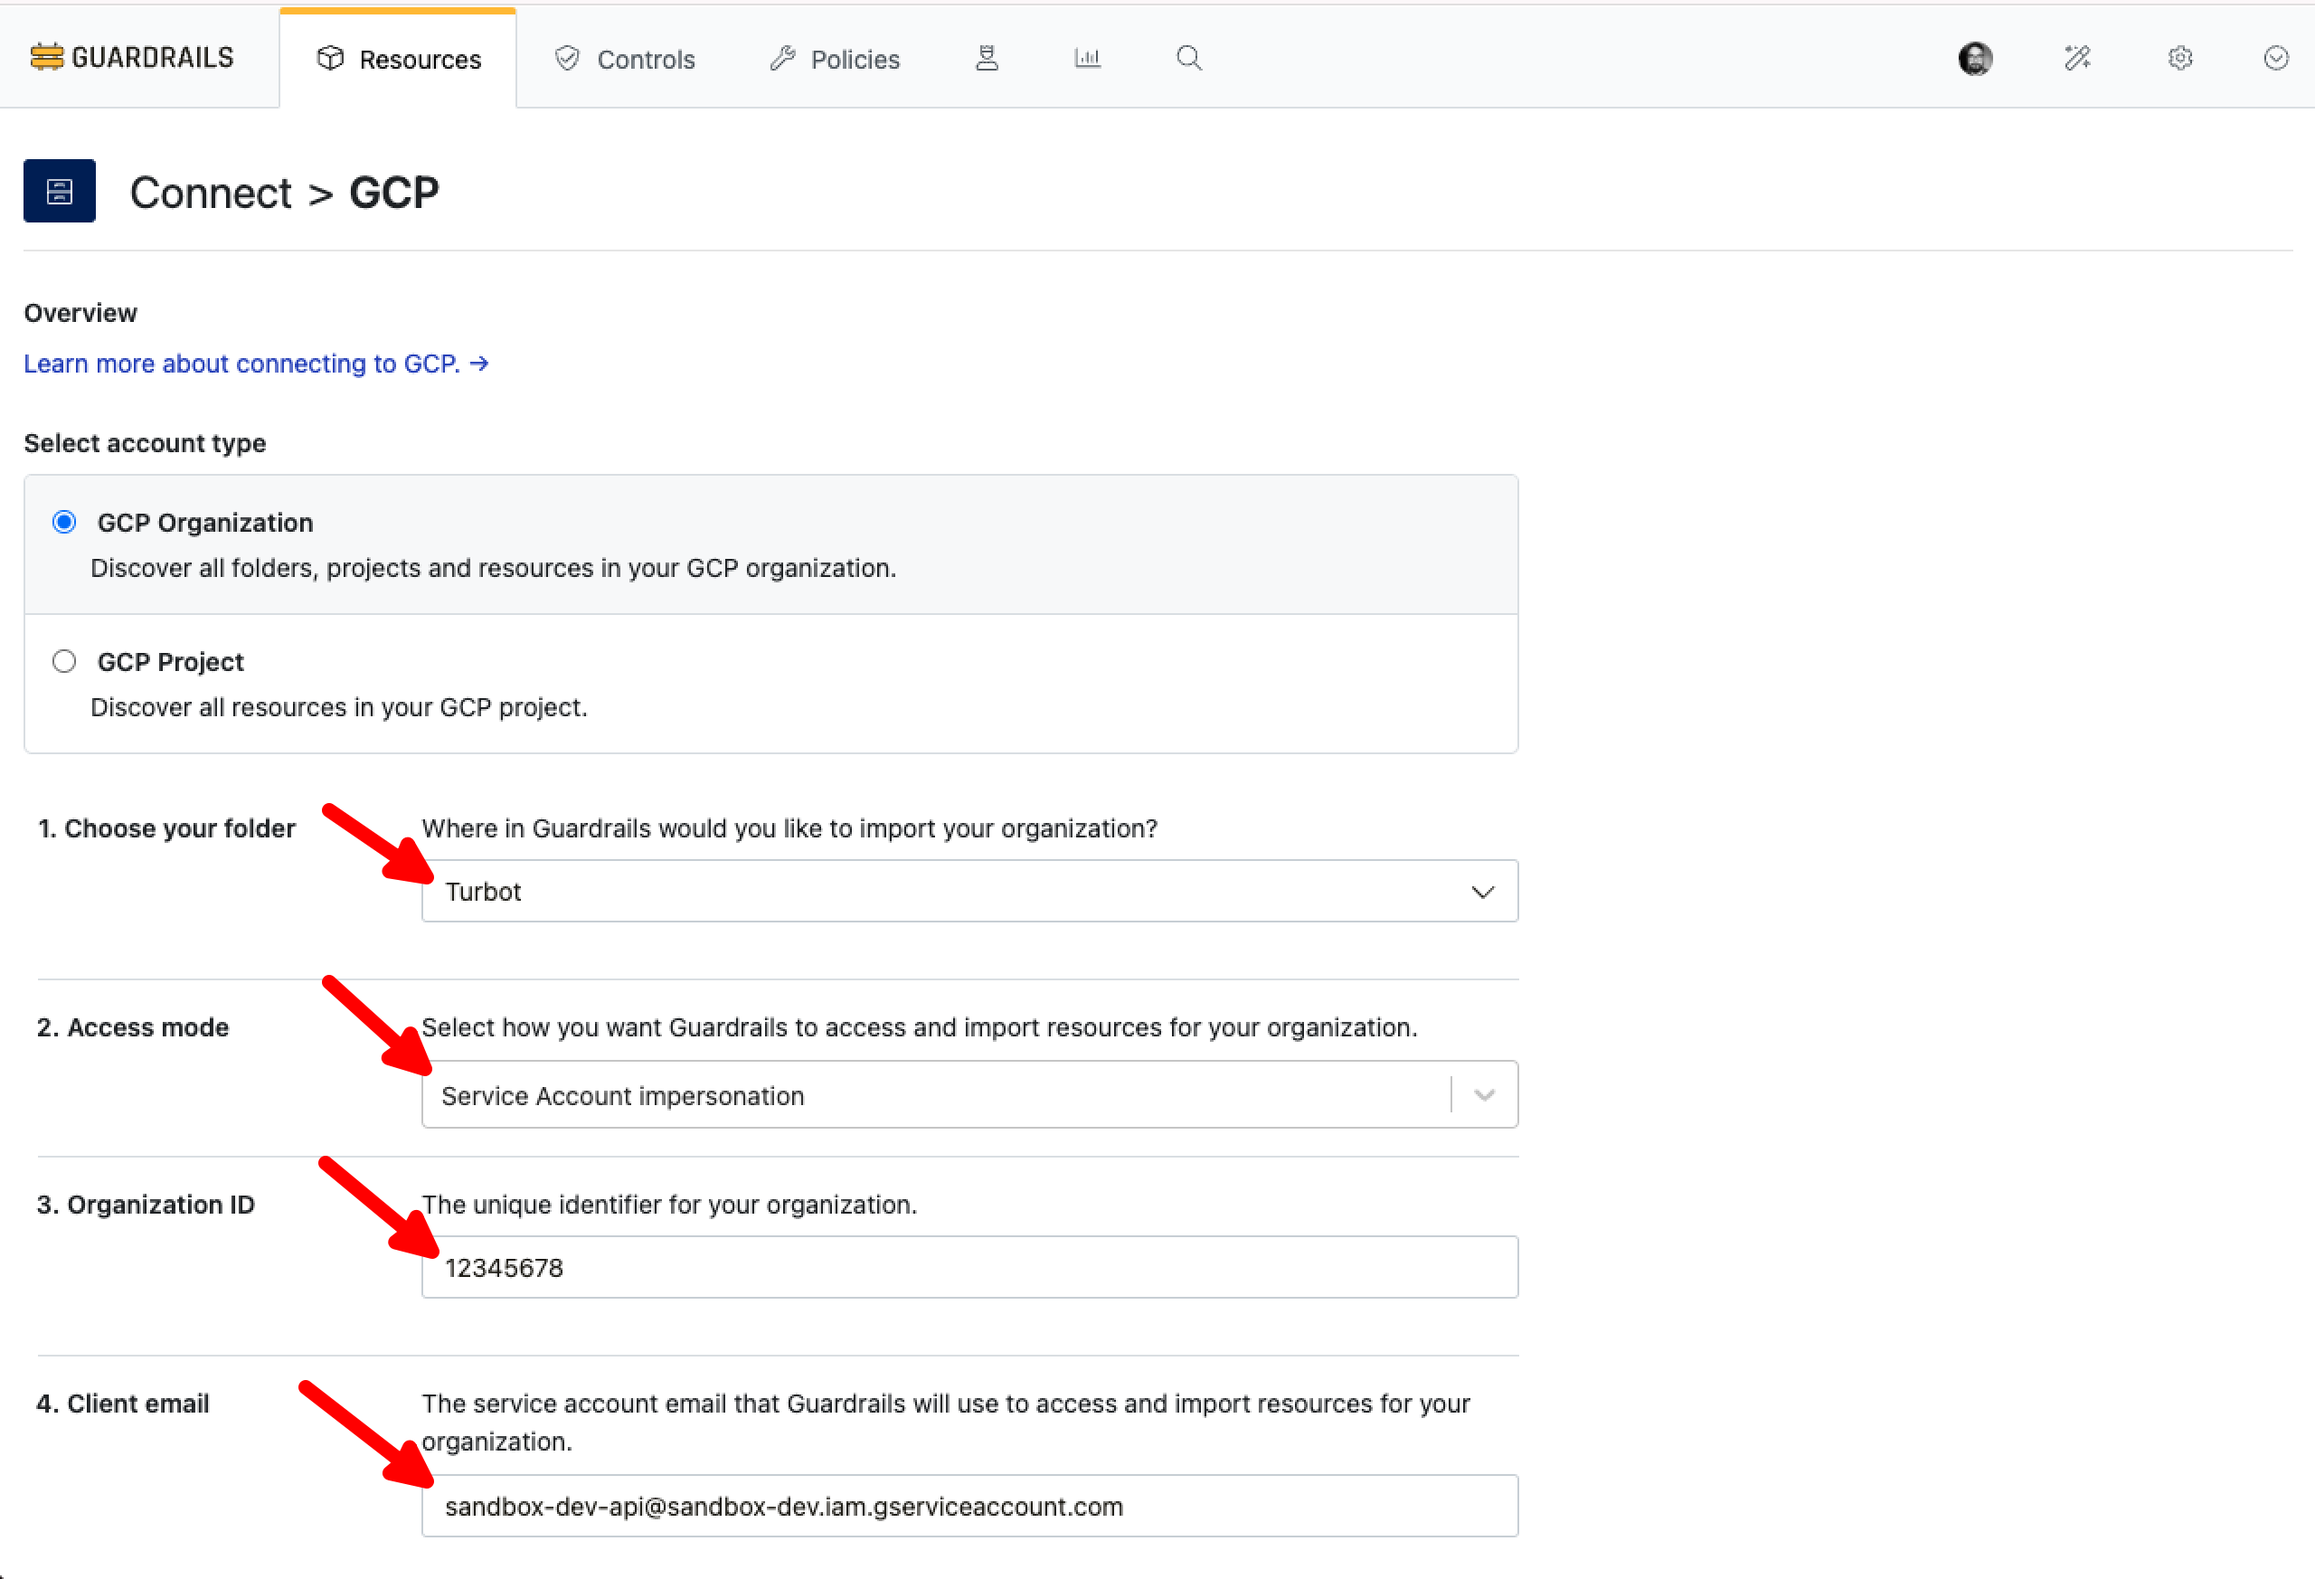
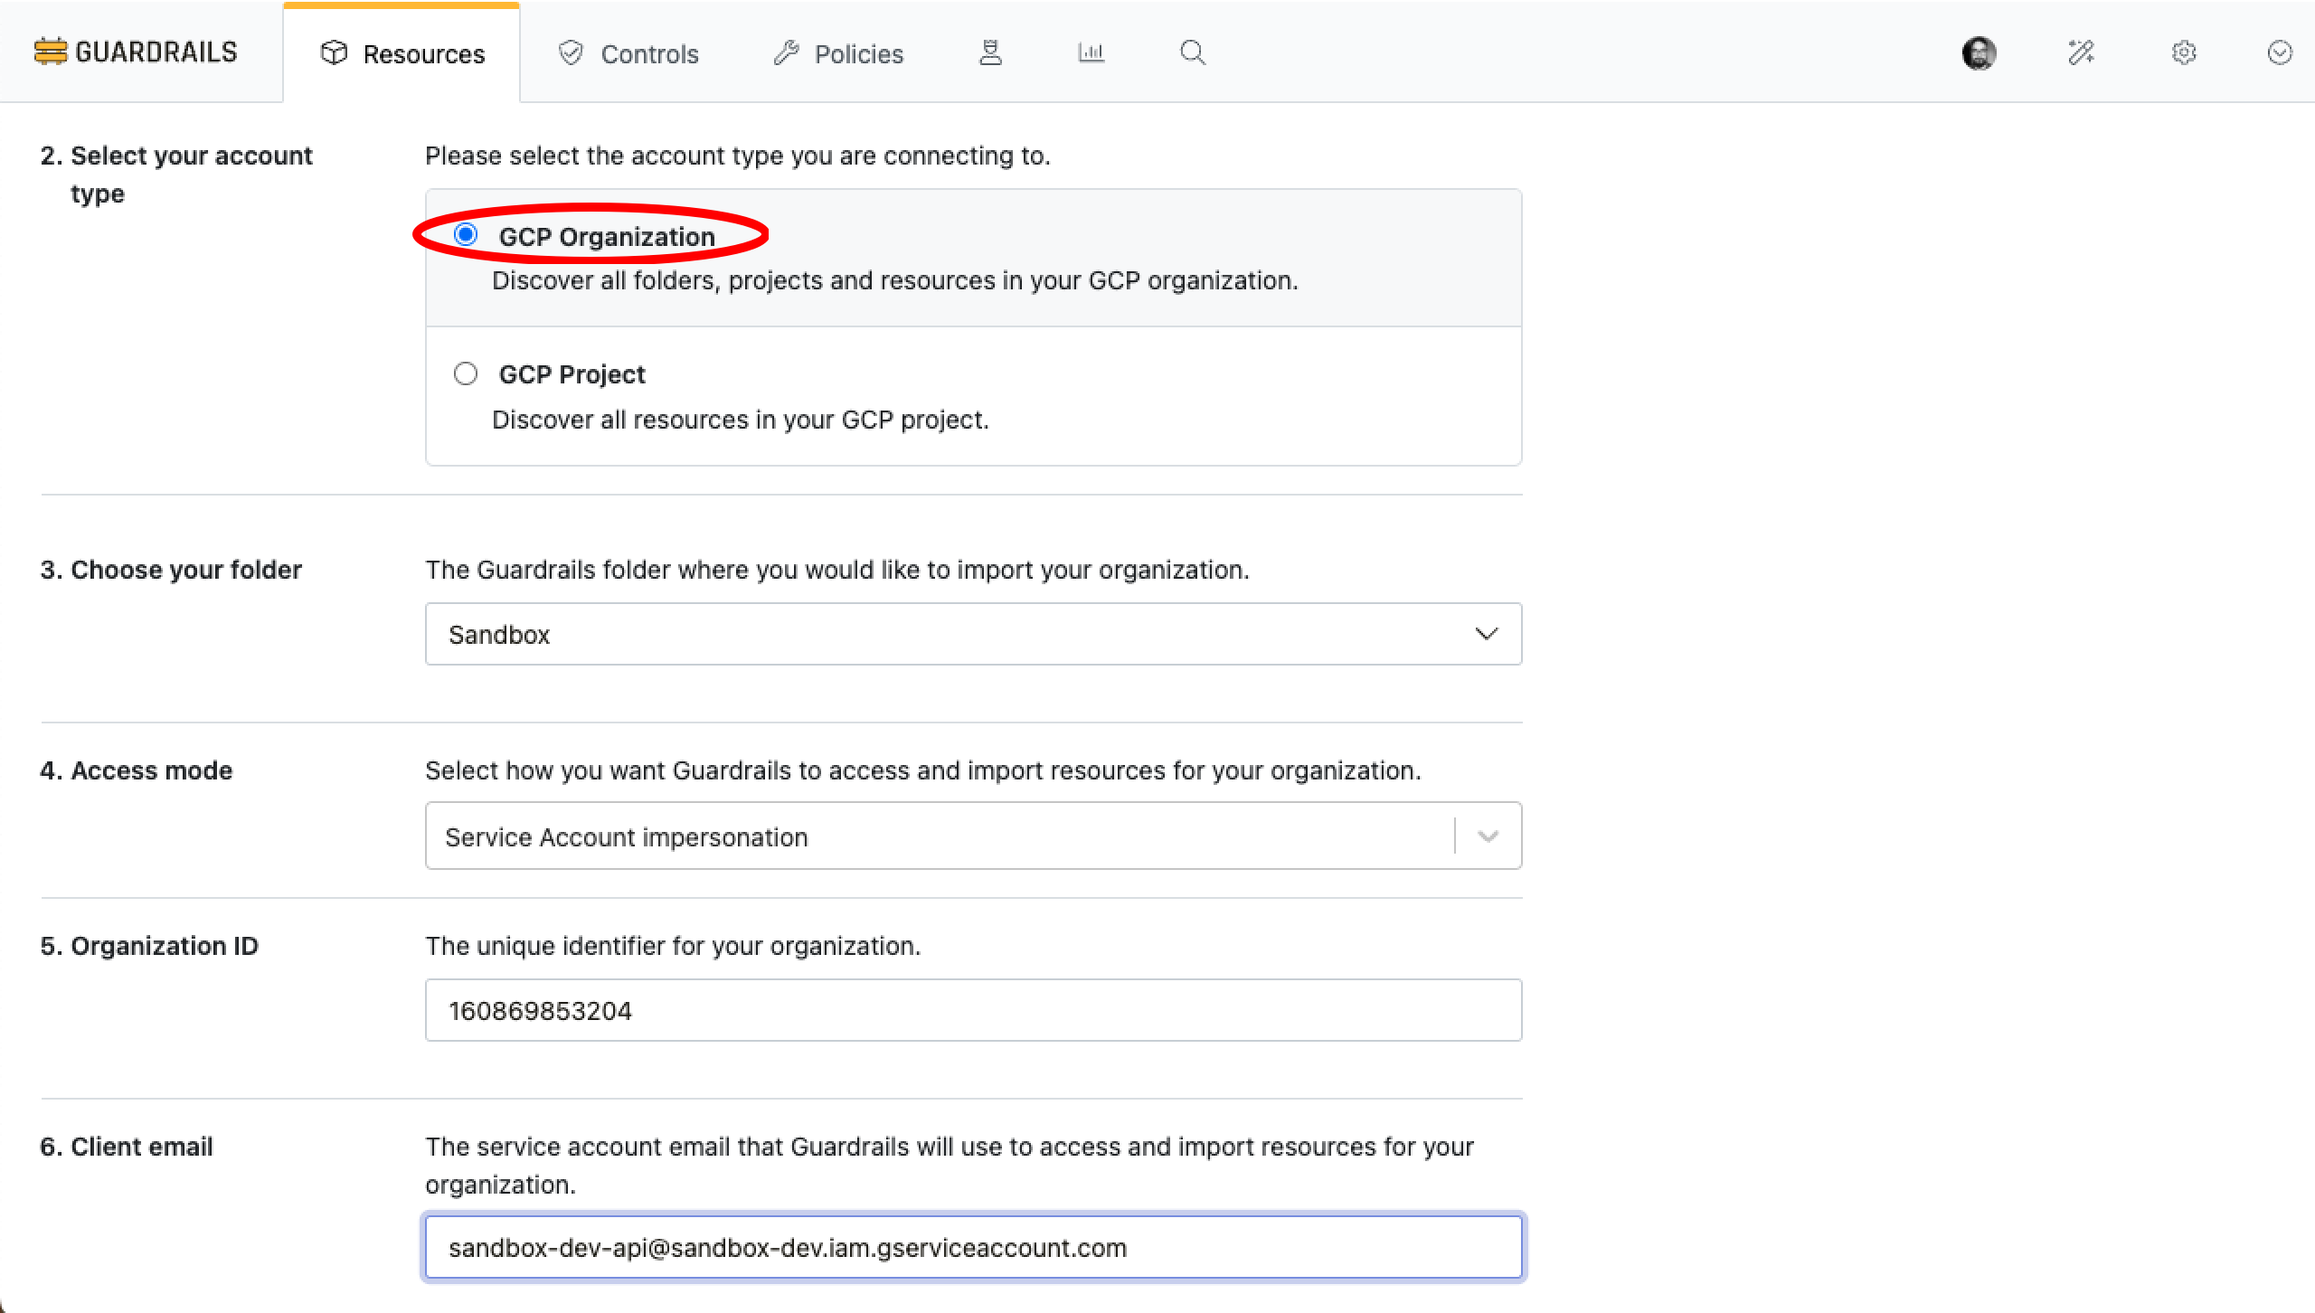
Updates with new screen and review steps.

diff --git a/docs/guides/gcp/import-gcp-organization/enterprise-hosted-workspace/index.md b/docs/guides/gcp/import-gcp-organization/enterprise-hosted-workspace/index.md
@@ -119,20 +119,6 @@ gcloud organizations add-iam-policy-binding ORGANIZATION_ID --member="serviceAcc
 ```
 </details>
 
-<!-- ## Step 6: Prepare Enterprise Configuration
-
-> [!IMPORTANT]
-> This step applies only to Enterprise-hosted Guardrails setups using Service Account Impersonation. Enterprise users using JSON credential based authentication need not proceed with this step.
-
-> For SaaS customers, this configuration is managed by Turbot.
-
-The GCP organization import feature requires [TED](/guardrails/docs/reference/glossary#turbot-guardrails-enterprise-database-ted) version `1.46.x` or later. This version introduces the `gcp_service_account_private_key_ssm_parameter_name` SSM parameter, which must be mapped to a manually created SSM parameter containing the credential JSON value. -->
-
-<!-- ### Prerequisites
-
-- Access to the Guardrails primary AWS account with [Administrator Privileges](/guardrails/docs/enterprise/FAQ/admin-permissions).
-- Familiarity with the AWS Console, Service Catalog, and CloudFormation services. -->
-
 ## Step 6: Prepare Enterprise Configuration
 
 To import a GCP organization into an enterprise-hosted environment, the following activities must be completed:
@@ -172,7 +158,13 @@ Navigate to the `GCP Service Account Private Key SSM Parameter` section of the T
 
 ![Update TED Stack Parameter](/images/docs/guardrails/guides/gcp/import-gcp-organization/enterprise-hosted-workspace/update-ted-stack-parameter.png)
 
-## Step 9: Import Organization into Guardrails
+## Step 9: Get Organization ID
+
+In the GCP console, select your organization. Navigate to **All** to view the list of projects, folders, and the organization itself. Locate and copy the `ID` of the organization.
+
+![Get GCP Organization ID](/images/docs/guardrails/guides/gcp/import-gcp-organization/enterprise-hosted-workspace/get-gcp-org-id.png)
+
+## Step 10: Import Organization into Guardrails
 
 Log into the Guardrails console with provided local credentials or by using any SAML based login and select the **CONNECT** card.
 
@@ -188,9 +180,9 @@ Provide the `Organization ID` for your GCP organization and the `Client email`. 
 
 ![Provide GCP Org Details](/images/docs/guardrails/guides/gcp/import-gcp-organization/enterprise-hosted-workspace/gcp-org-details.png)
 
-Proceed to Step 10 for setting up Service Account Impersonation.
+Proceed to Step 11 for setting up Service Account Impersonation.
 
-## Step 10: Setup Service Account Impersonation
+## Step 11: Setup Service Account Impersonation
 
 - The **impersonating** user or service account (i.e. `the identity that runs Guardrails`) must have the **Service Account Token Creator** role (`roles/iam.serviceAccountTokenCreator`) on the target service account.
 
@@ -209,7 +201,28 @@ Now execute copied command using [gcloud CLI](https://cloud.google.com/sdk/docs/
 gcloud iam service-accounts add-iam-policy-binding SERVICE_ACCOUNT_NAME@PROJECT_ID.iam.gserviceaccount.com --member="user:IMPERSONATOR_EMAIL" --role="roles/iam.serv
 ```
 
-## Step 11: Create External ID Label
+Validate the output.
+
+```
+⇒ gcloud iam service-accounts add-iam-policy-binding mrk-sa-test@mrk-sandbox.iam.gserviceaccount.com --member=serviceAccount:integration-gcp@turbot-guardrails-dev.iam.gserviceaccount.com --role=roles/iam.serviceAccountTokenCreator --format=json
+Updated IAM policy for serviceAccount [mrk-sa-test@mrk-sandbox.iam.gserviceaccount.com].
+{
+  "bindings": [
+    {
+      "members": [
+        "serviceAccount:integration-gcp@turbot-guardrails-dev.iam.gserviceaccount.com"
+      ],
+      "role": "roles/iam.serviceAccountTokenCreator"
+    }
+  ],
+  "etag": "BwYsqn0-odQ=",
+  "version": 1
+}
+```
+
+
+
+## Step 12: Create External ID Label
 
 The `External ID label` acts as a key service account identifier within the project that your service account belongs to. Create a label with the key `guardrails_external_id` and value: `turbot_162167737252865_f1da2779-92c8-46b1-83dd-95d629023211`. This value is randomly populated by Guardrails.
 
@@ -227,7 +240,7 @@ Guardrails will use this label to verify that you have the correct permissions a
 > [!IMPORTANT]
 > The `External ID` label created for this organization import, must be retained within the respective GCP project.
 
-## Step 12: Exclude Projects
+## Step 13: Exclude Projects
 
 This step is required if you wish to exclude specific projects or folder under organization from being imported into Guardrails.
 
@@ -238,24 +251,36 @@ Click the **Edit** button to provide a list of project IDs or folder names under
 
 ![Edit Exception List](/images/docs/guardrails/guides/gcp/import-gcp-organization/enterprise-hosted-workspace/exception-list-with-connect.png)
 
-Click the **Preview** button to ensure no errors are displayed. Move to [Step 13](#step-13-initiate-connect).
+Click the **Preview** button to ensure no errors are displayed. Move to [Step 14](#step-14-initiate-connect).
 
-## Step 13: Initiate Connect
+## Step 14: Initiate Connect
 
 Click **Connect** to begin the import process.
 
 ![Connect to Import](/images/docs/guardrails/guides/gcp/import-gcp-organization/enterprise-hosted-workspace/connect.png)
 
-Guardrails will create and execute discovery controls for your GCP Organization, scanning each project and resource based on the configured policies.
+Guardrails will create and execute discovery controls for your GCP Organization, scanning each folder, project and resources under it.
+
+![Check Discovery process](/images/docs/guardrails/guides/gcp/import-gcp-organization/check-discovery-process.png)
 
 ## (Optional) Ensure Billing is Enabled
 
 If you plan to allow Guardrails to enable new APIs or create resources that may incur charges, ensure that billing is enabled at the **organization** level or for specific projects as needed. For more details, refer to the GCP guide [Manage your Cloud Billing account](https://cloud.google.com/billing/docs/how-to/manage-billing-account).
 
-## Verify
+## Review
+
+- [ ] Confirm that the organization CMDB and discovery controls are in the `OK` state.
+
+Navigate to the **Resources** tab, search for the organization name, then select **Controls** tab besides to check the controls are on `OK` state.
+
+![Review Org CMDB and Discovery Controls](/images/docs/guardrails/guides/gcp/import-gcp-organization/review-org-cmdb-discovery-controls.png)
 
 - [ ] Verify that the projects and folders are successfully imported into Guardrails and match the GCP console.
-- [ ] Confirm that the controls are in the `OK` state.
+
+Navigate to the **Resources** tab, search for the organization name to check the list of resources the import process is discovered matching to the structure in GCp console.
+
+![Review GCP Org Resources](/images/docs/guardrails/guides/gcp/import-gcp-organization/review-gcp-org-resources-imported.png)
+
 
 ## Troubleshooting
 
@@ -265,6 +290,8 @@ If you plan to allow Guardrails to enable new APIs or create resources that may 
 | Access Denied: Malformed Secret Key  | Guardrails requires the multi-line format of the Secret Key. Ensure it includes the `-----BEGIN PRIVATE KEY-----` and `-----END PRIVATE KEY-----` headers.                                                                                          |                                                                                                     |
 | Access Denied: Improper Client Email | Guardrails cannot use a non-service account email to access the project. Ensure the Client Email is in the form of `{identifier}@{your-project-id}.iam.gserviceaccount.com`.                                                                         | [Check GCP Service Account Documentation](https://cloud.google.com/iam/docs/service-accounts).                                                                                                         |
 | Access Denied: Missing or Insufficient Permissions | If Guardrails is asked to discover, track, or remediate resources without the necessary permissions, `access denied` errors will appear in the Discovery and CMDB controls in the Guardrails console. Resolve by granting the required permissions. |                                                                                   |
+| Bad Request: Error processing runnable input
+organizationcredentials	`Cloud Resource Manager API has not been used` in project 265919997400 before or it is disabled.| If Guardrails import process errors out in CMDB and discovery control run | Enable it by visiting https://console.developers.google.com/apis/api/cloudresourcemanager.googleapis.com/overview?project=265919997300 then retry. If you enabled this API recently, wait a few minutes for the action to propagate to our systems and retry.                                                                                  |
 | Lots of Controls in Error State      | If there were issues with credentials during project import, many Discovery controls may show an `error` state. You can either delete and reimport the project or rerun the controls in `error` using scripts provided in the Guardrails Samples Repo. | Use the [Python](https://github.com/turbot/guardrails-samples/tree/main/api_examples/python/run_controls), [Node](https://github.com/turbot/guardrails-samples/tree/main/guardrails_utilities/python_utils/run_controls_batches), or [Shell](https://github.com/turbot/guardrails-samples/tree/main/guardrails_utilities/shell_utils/run-controls) scripts. |
 | GCP Service API Enabled Policies Aren't Set | If the `GCP > {Service} > API Enabled` policy is not set to `Enforce: Enabled`, Discovery and CMDB controls will be `skipped`. Enable the applicable service APIs manually if Guardrails lacks permissions to do so.                                  | [Enable GCP APIs Documentation](https://cloud.google.com/apis).                                                                                                 |
 | Further Assistance                  | If you continue to encounter issues, please open a ticket with us and attach the relevant information to assist you more efficiently.                                                                                                               | [Open Support Ticket](https://support.turbot.com).                                                                                                               |
